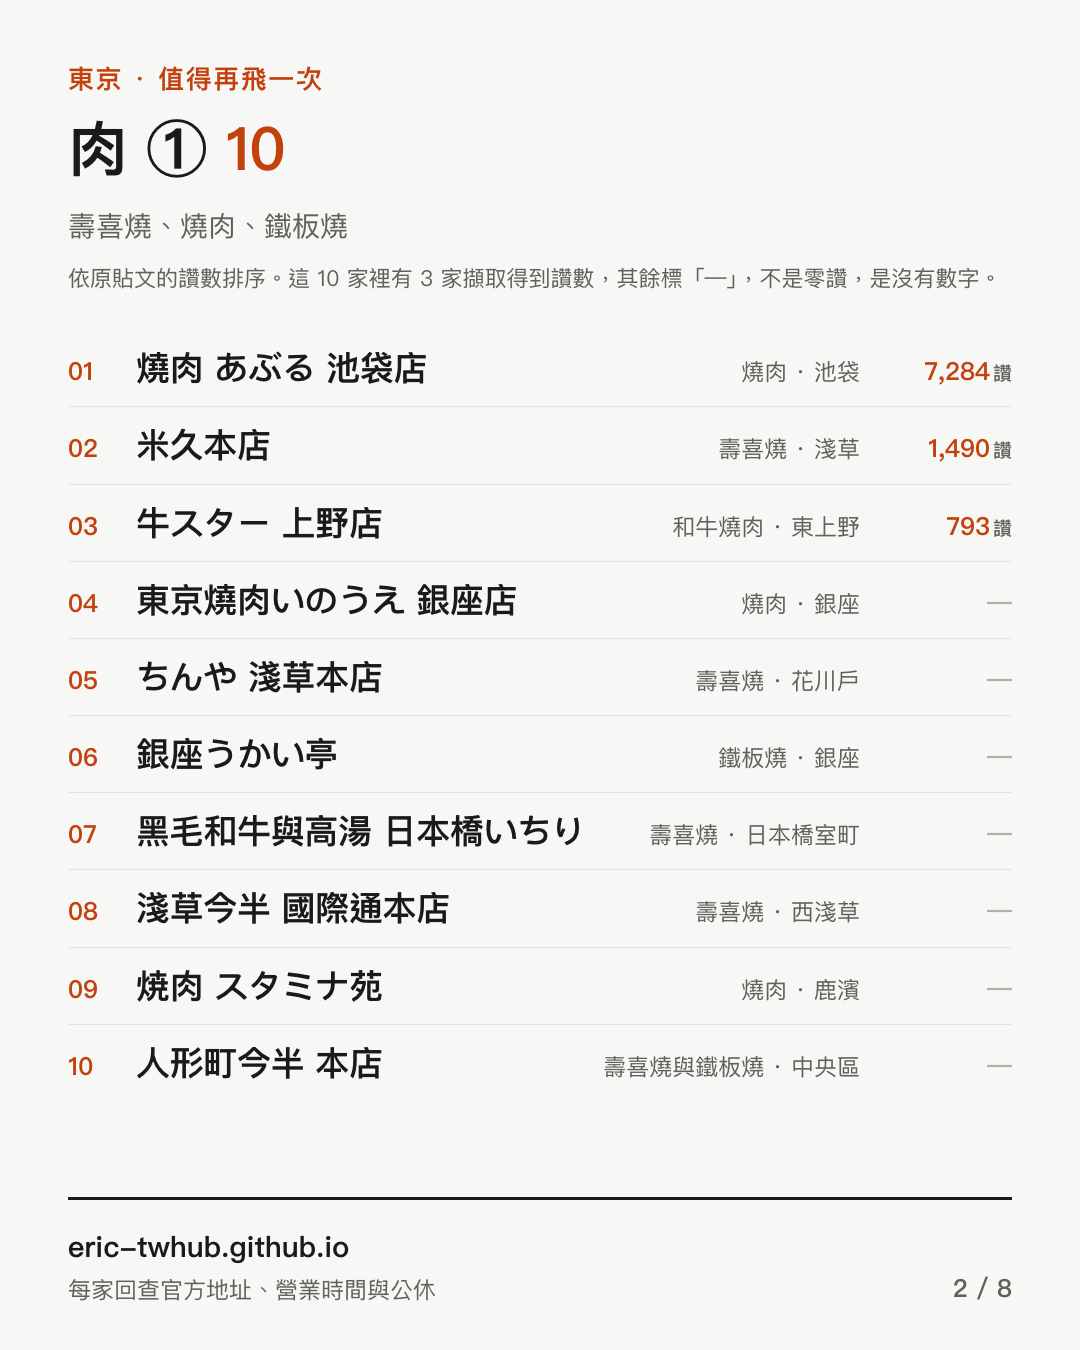
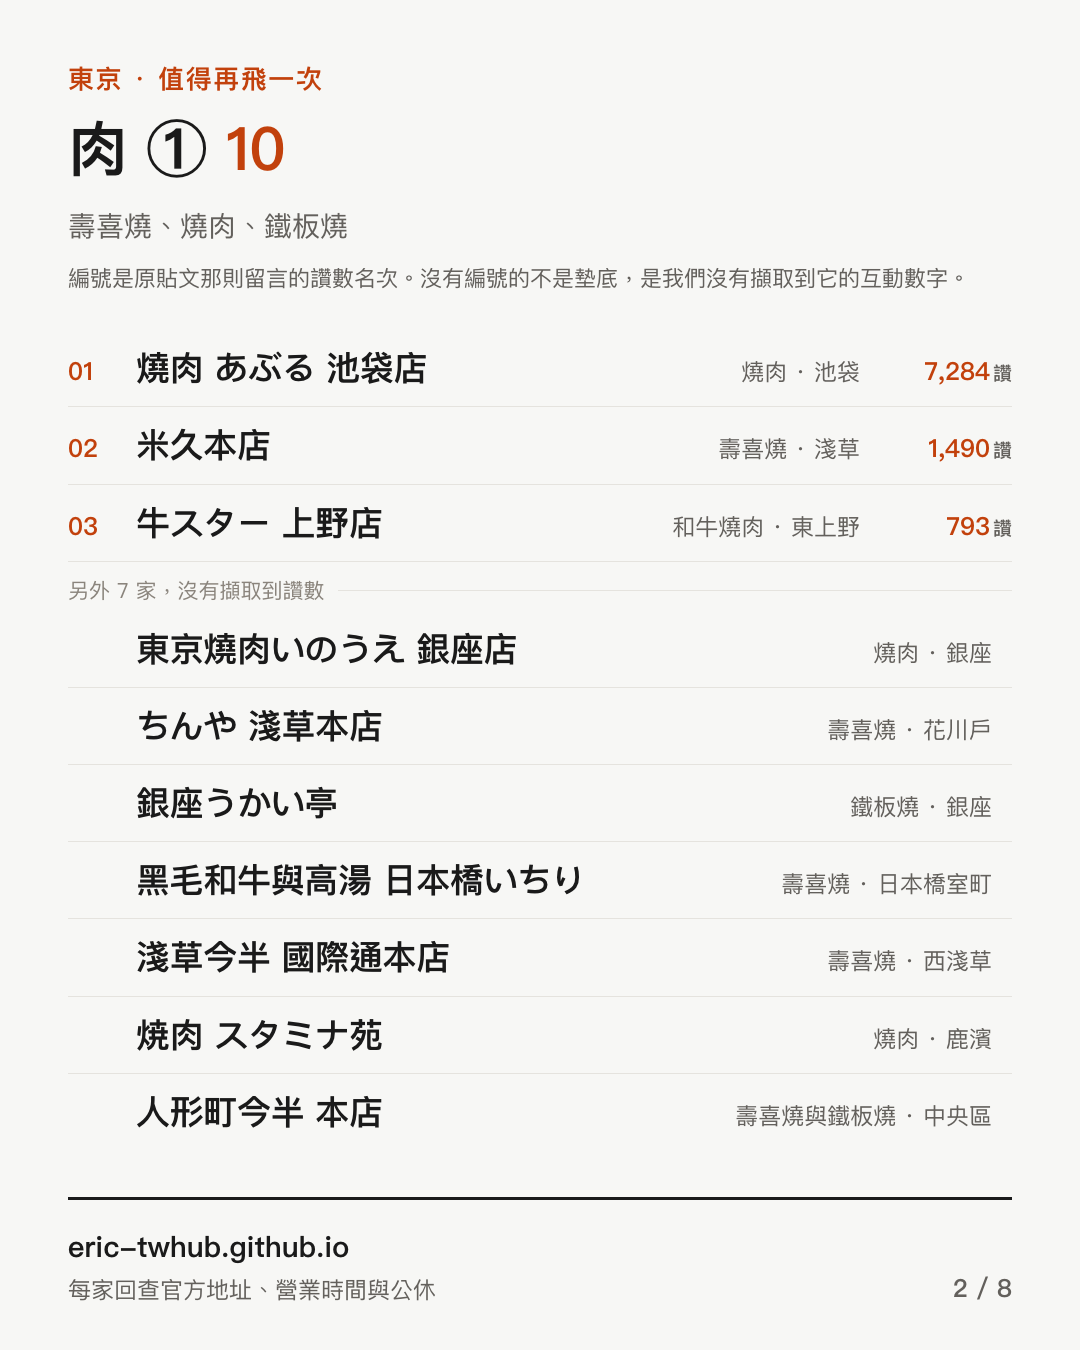
圖卡：只有擷取得到讚數的 24 家才給名次
上一版把 46 家全部編號、沒讚數的標「—」，結果每張卡片後半都是一整排破折號，
而且「編號 04 但沒有數字」還是在暗示它排第四。

改成兩段：有讚數的依名次列出並印讚數，其餘用一條分隔線隔開、不編號也不留空欄。
分隔線自己說明是什麼：「另外 N 家，沒有擷取到讚數」。
說明文字也改成講清楚差別：「沒有編號的不是墊底，是我們沒有擷取到它的互動數字。」

未編號的那幾列把讚數欄收掉，長店名就不會再折成兩行
（とろけるハンバーグ福よし 淺草藏前、牛たん炭焼 利久 LUMINE EST 新宿店）。

版面檢查的選擇器補上 .sep，否則新加的分隔列不會被算進高度。

diff --git a/make_picks_cards.py b/make_picks_cards.py
@@ -88,6 +88,11 @@ h1 em{font-style:normal;color:#c2410c}
 .lk small{font-size:19px;font-weight:500;color:#63605c;margin-left:3px}
 .lk.non{color:#b4afa8;font-weight:500}
 .legend{font-size:22px;color:#63605c;margin-top:10px;line-height:1.6}
+.sep{display:flex;align-items:center;gap:14px;padding:14px 0 6px;font-size:21px;
+ color:#8a847c;white-space:nowrap}
+.sep::after{content:"";flex:1 1 auto;height:1px;background:#e5e3de}
+.row.nor .nm{font-weight:600}
+.row.nor .lk{flex-basis:0;padding:0}
 .dead .nm{text-decoration:line-through;text-decoration-thickness:2px;color:#c4563a}
 .dead .mt{color:#c4563a}
 .foot{flex:0 0 auto;padding:26px 0 44px;border-top:3px solid #1a1a1a;
@@ -165,33 +170,42 @@ def build(d):
              f'<div><b>{len(S)}</b><span>家店<br>整理出來</span></div>'
              f'<div><b>{off}</b><span>家找到<br>官方網站</span></div>'
              f'<div><b>{bad}</b><span>處留言<br>要修正</span></div></div>'
-             '<div class="note">排序依原貼文的讚數，不是本站評的。'
-             f'{len(S)} 家裡有 {withlikes} 家擷取得到讚數，其餘標「—」。</div>'
+             '<div class="note">編號依原貼文的讚數，不是本站評的。'
+             f'{len(S)} 家裡只有 {withlikes} 家擷取得到讚數，只有那 {withlikes} 家有名次。</div>'
              + foot(1, n))
     out.append(('tokyo-46-01.png', page(cover, 'cover')))
 
     for i, (t, sub, items) in enumerate(groups, 2):
         # 和網頁同一個排序鍵：原貼文的讚數由多到少。沒有擷取到讚數的排在後面，
         # 維持原序。不要補 0，那等於宣稱它得了 0 個讚。
-        items = sorted(items, key=lambda x: -likes(x))
+        # 只有擷取得到讚數的才給名次。其餘的不編號也不標「—」：
+        # 它們沒有參加這個排名，不是排在最後面。
+        ranked = sorted([x for x in items if likes(x)], key=lambda x: -likes(x))
+        rest = [x for x in items if not likes(x)]
         rows = ''
-        for j, s in enumerate(items, 1):
-            dead = s.get('status')
-            meta = E(dead) if dead else E(s['cat']) + ' · ' + E(area(s))
-            lk = likes(s)
-            lkh = (f'<div class="lk">{lk:,}<small>讚</small></div>' if lk
-                   else '<div class="lk non">—</div>')
+        for j, st in enumerate(ranked, 1):
+            dead = st.get('status')
+            meta = E(dead) if dead else E(st['cat']) + ' · ' + E(area(st))
             rows += (f'<div class="row{" dead" if dead else ""}">'
                      f'<div class="num">{j:02}</div>'
-                     f'<div class="nm">{E(s["n"])}</div>'
-                     f'<div class="mt">{meta}</div>{lkh}</div>')
-        got = sum(1 for x in items if likes(x))
+                     f'<div class="nm">{E(st["n"])}</div>'
+                     f'<div class="mt">{meta}</div>'
+                     f'<div class="lk">{likes(st):,}<small>讚</small></div></div>')
+        if rest:
+            rows += (f'<div class="sep">另外 {len(rest)} 家，沒有擷取到讚數</div>')
+            for st in rest:
+                dead = st.get('status')
+                meta = E(dead) if dead else E(st['cat']) + ' · ' + E(area(st))
+                rows += (f'<div class="row nor{" dead" if dead else ""}">'
+                         f'<div class="num"></div>'
+                         f'<div class="nm">{E(st["n"])}</div>'
+                         f'<div class="mt">{meta}</div>'
+                         f'<div class="lk"></div></div>')
         inner = ('<div class="kick">東京 · 值得再飛一次</div>'
                  f'<h1>{E(t)}<em> {len(items)}</em></h1>'
                  f'<div class="sub">{E(sub)}</div>'
-                 f'<div class="legend">依原貼文的讚數排序。'
-                 f'這 {len(items)} 家裡有 {got} 家擷取得到讚數，'
-                 f'其餘標「—」，不是零讚，是沒有數字。</div>'
+                 f'<div class="legend">編號是原貼文那則留言的讚數名次。'
+                 f'沒有編號的不是墊底，是我們沒有擷取到它的互動數字。</div>'
                  f'<div class="list">{rows}</div>' + foot(i, n))
         out.append((f'tokyo-46-{i:02}.png', page(inner)))
 
@@ -217,7 +231,7 @@ def check(chrome, tmp, name, src):
         '</body>',
         '<script>document.title=JSON.stringify((()=>{'
         'const f=document.querySelector(".foot").getBoundingClientRect().top;'
-        'const it=[...document.querySelectorAll(".row,.fix,.note,.stat")];'
+        'const it=[...document.querySelectorAll(".row,.fix,.note,.stat,.sep")];'
         'const b=it.length?Math.max(...it.map(e=>e.getBoundingClientRect().bottom)):0;'
         'return{gap:Math.round(f-b)}})())</script></body>'))
     r = subprocess.run([chrome, '--headless', '--disable-gpu', '--dump-dom',
